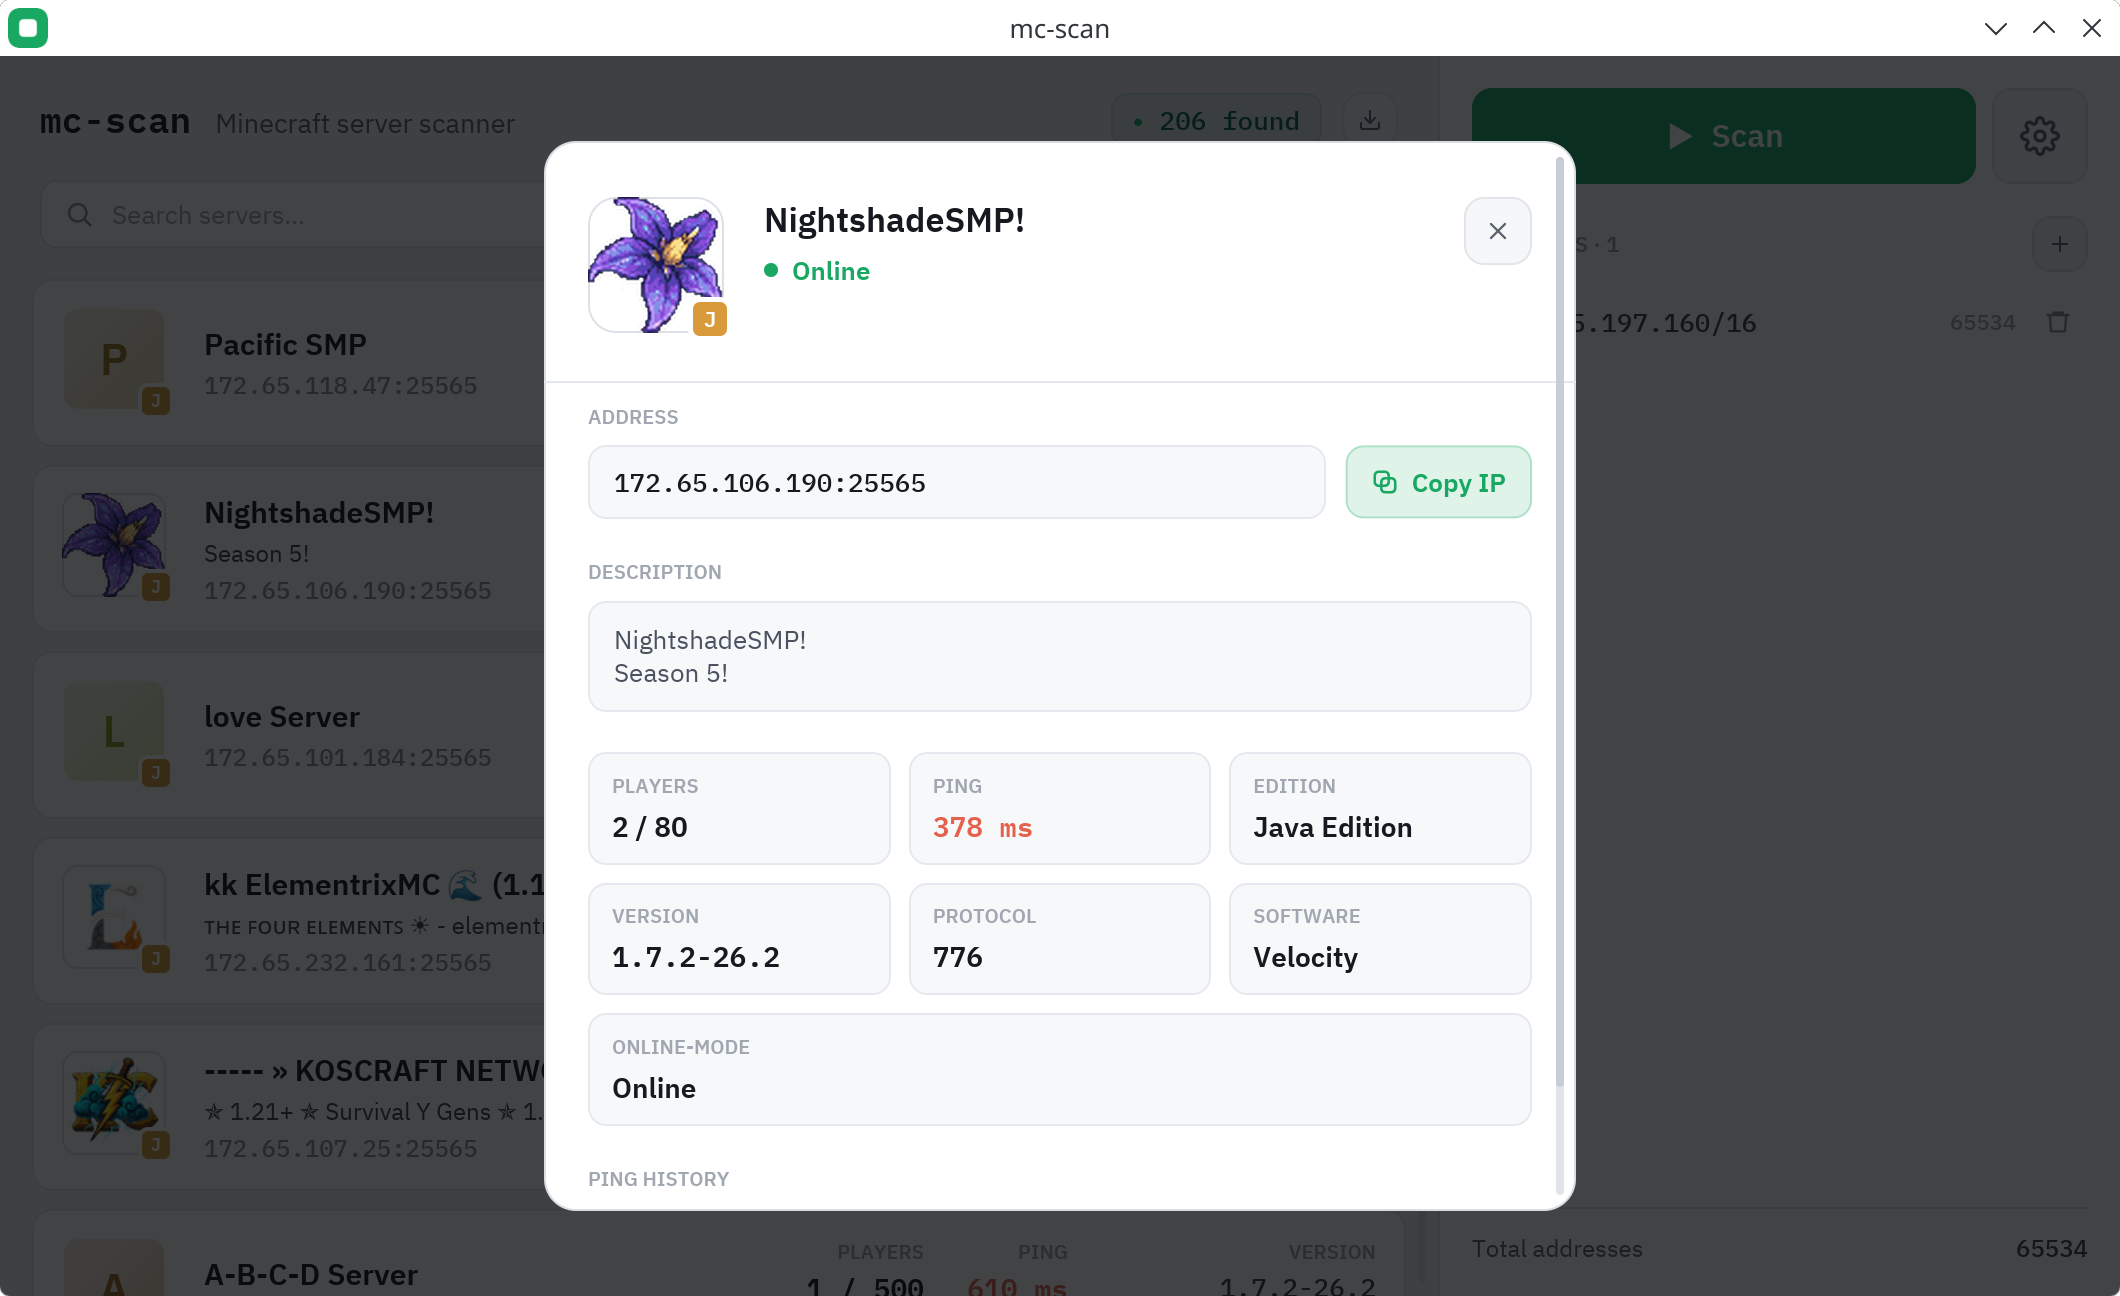
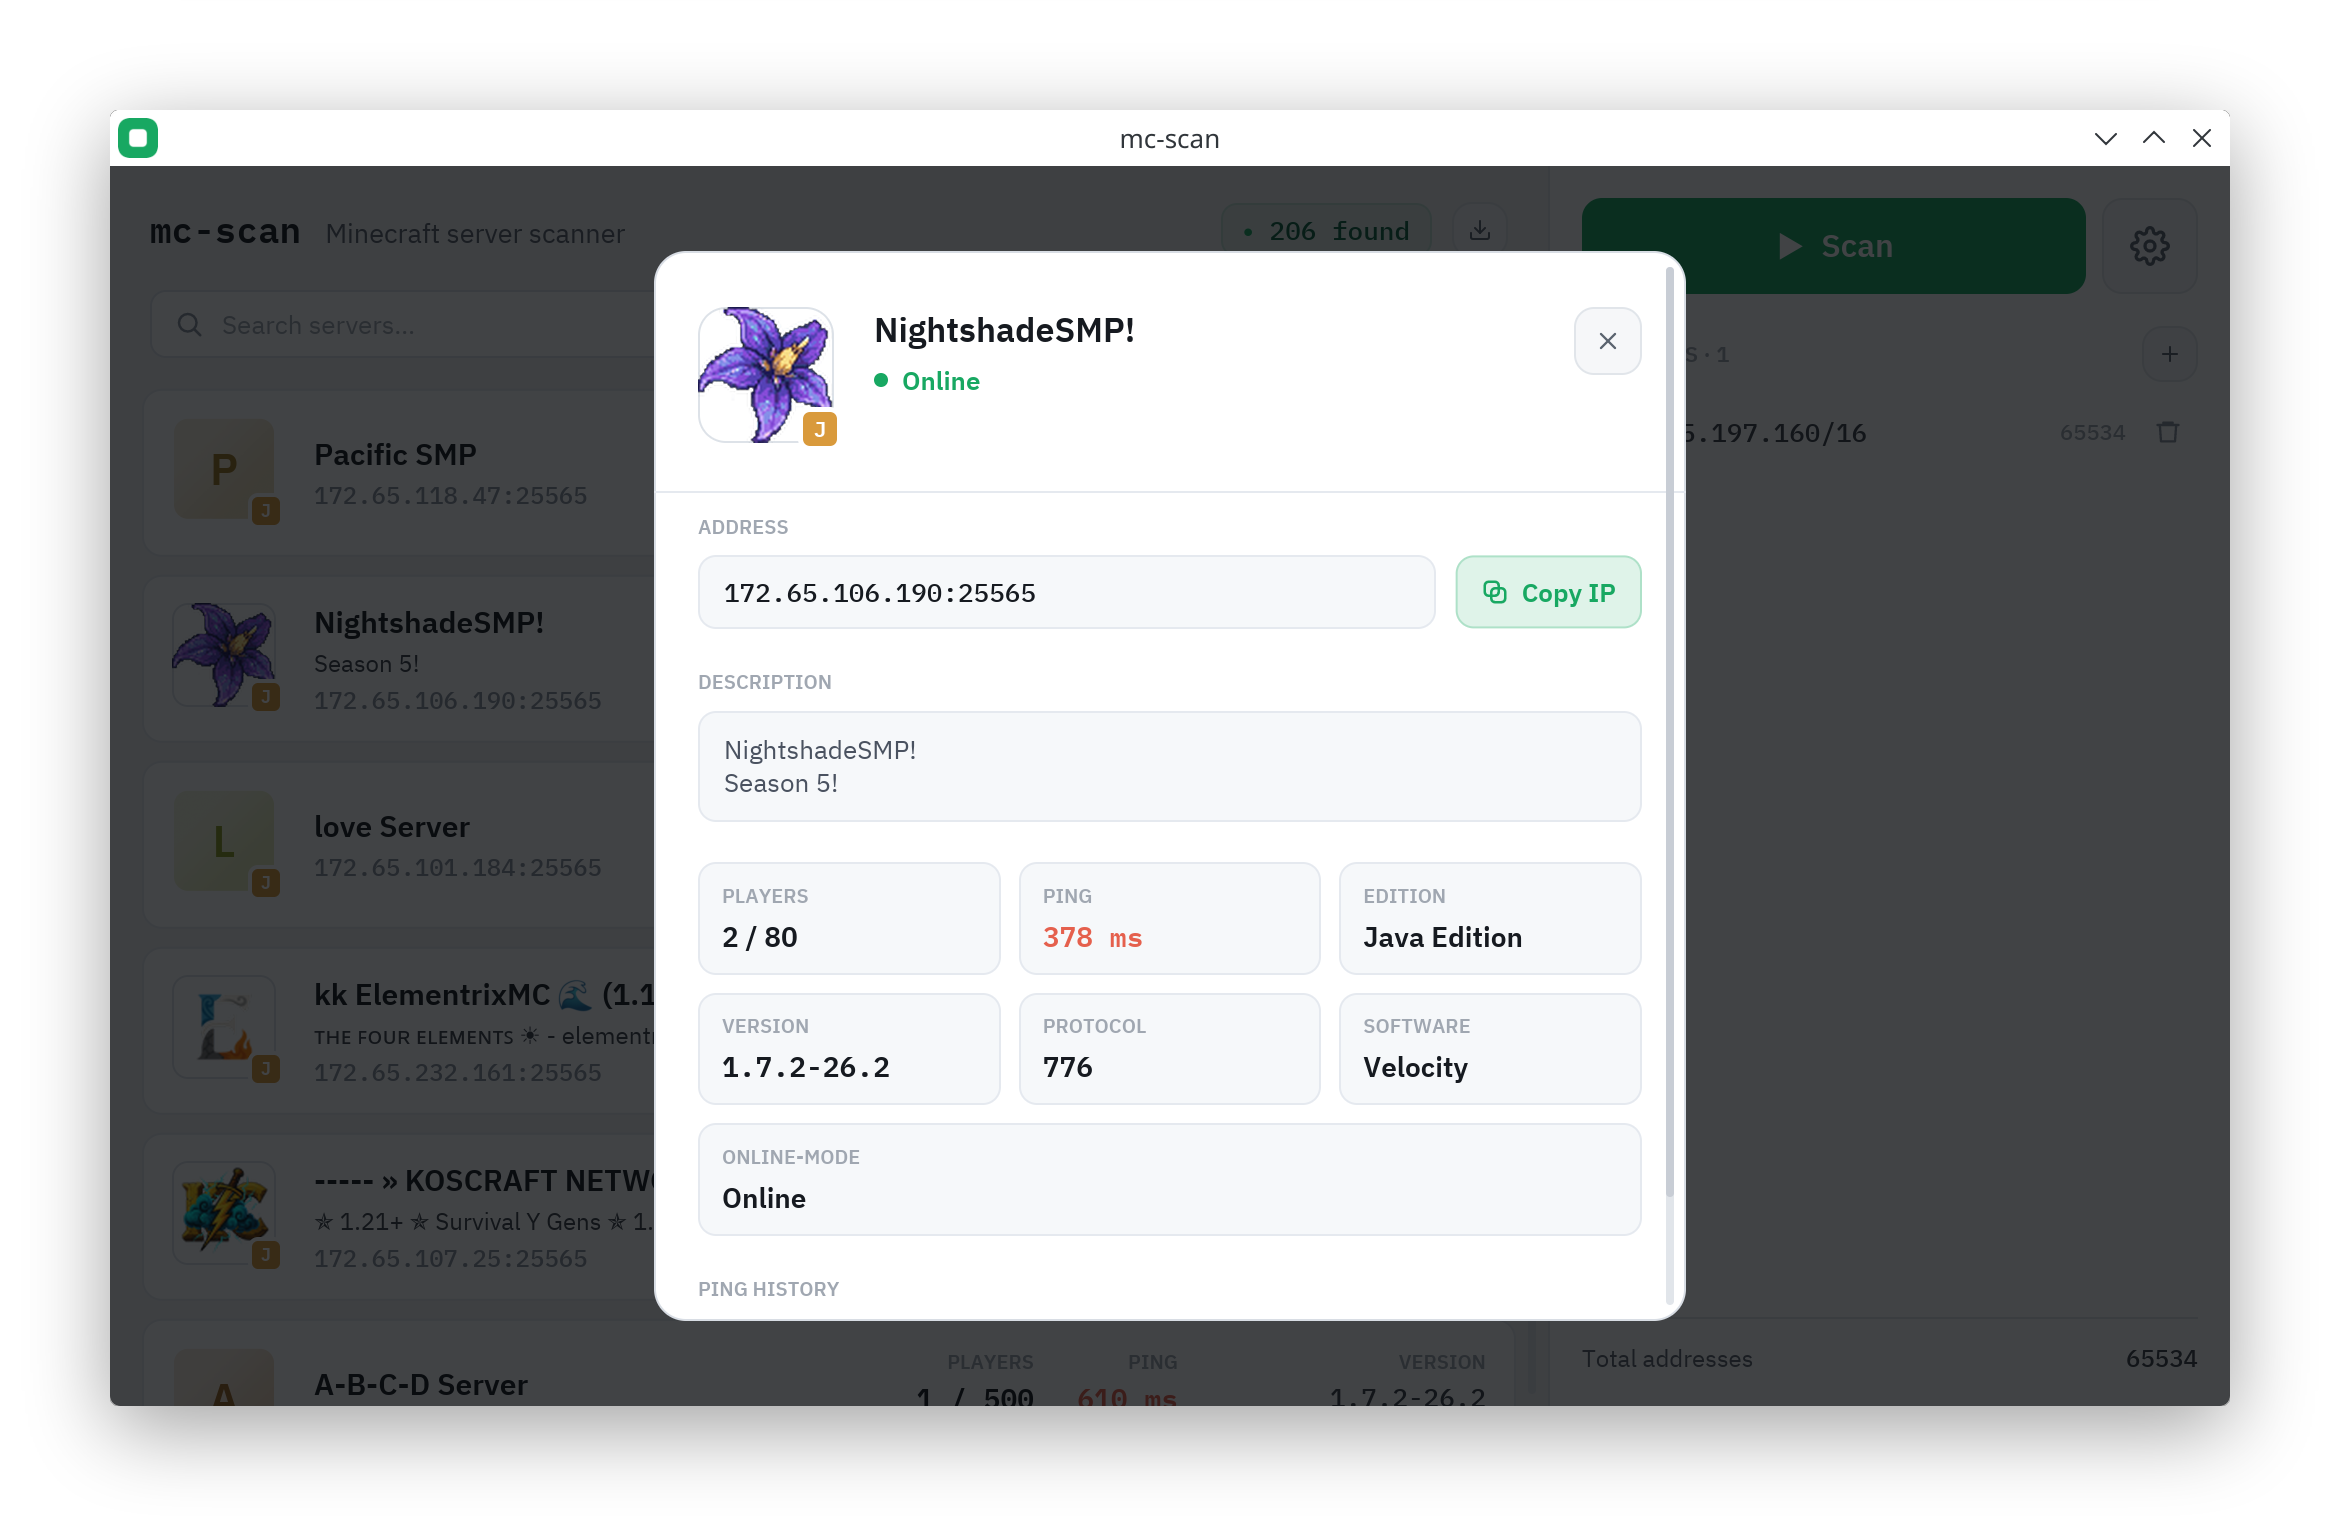
feat(docs): add img box shadow

diff --git a/README.md b/README.md
@@ -12,7 +12,7 @@ Minecraft server scanner — Java & Bedrock
 
 <br/>
 
-<img src="docs/hero-themes.png" width="700" style="box-shadow: 5px 5px 10px rgba(0, 0, 0, 0.3);" alt="mc-scan main window — light and dark themes"/>
+<img src="docs/hero-themes.png" width="700" alt="mc-scan main window — light and dark themes"/>
 
 </div>
 
@@ -40,7 +40,7 @@ Ports, concurrency, and timeout are configurable in Settings.
 
 <div align="center">
 
-<img src="docs/hero-preview.png" width="700" style="box-shadow: 5px 5px 10px rgba(0, 0, 0, 0.3);" alt="Server detail"/>
+<img src="docs/hero-preview.png" width="700" alt="Server detail"/>
 
 </div>
 
